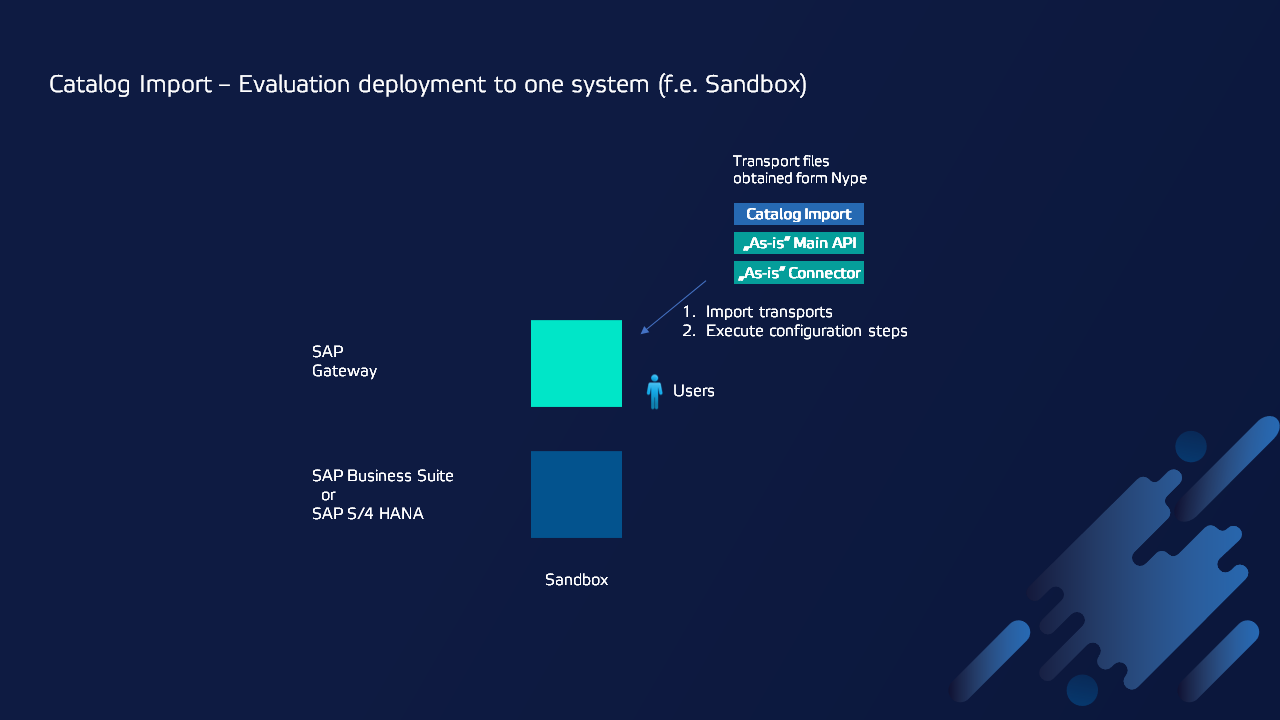
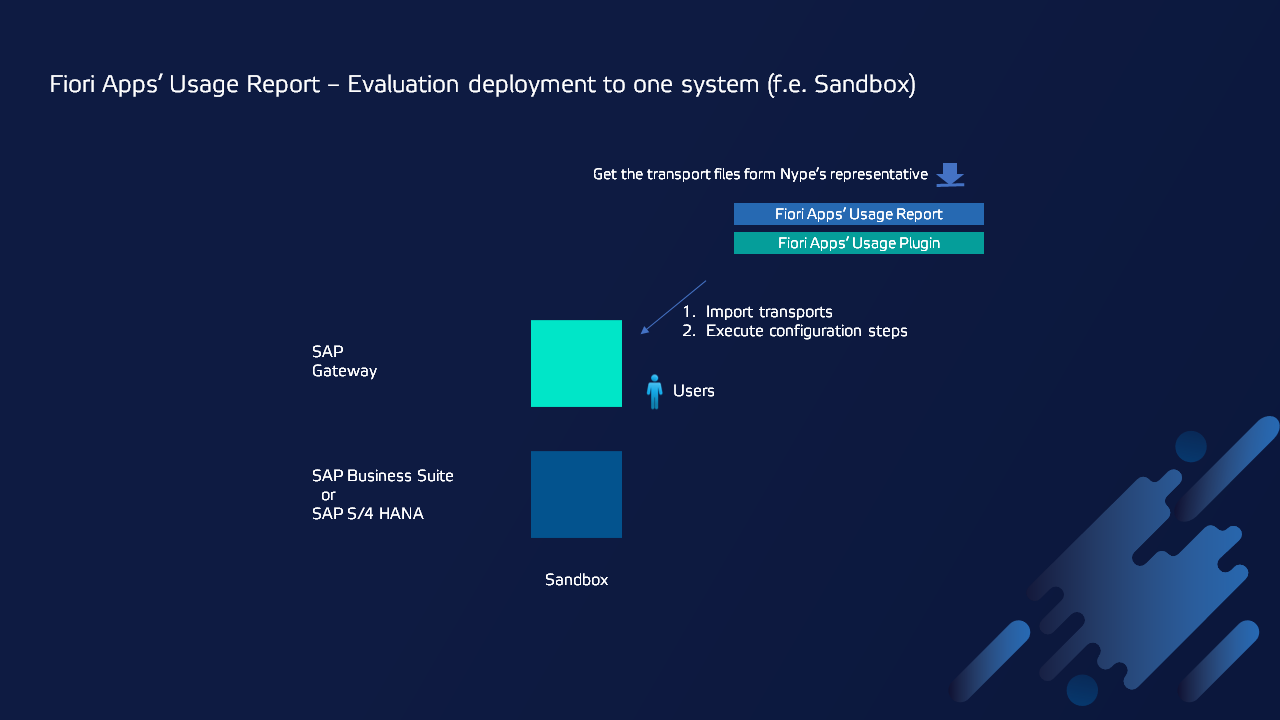
Deployed 2c93b8f with MkDocs version: 1.1.2

Changed region(s): [[0.0312, 0.0917, 0.7188, 0.1528], [0.4688, 0.2139, 0.7812, 0.3972]]

diff --git a/2020/FPS01/info/index.html b/2020/FPS01/info/index.html
@@ -974,7 +974,7 @@ documentation project:</p>
 
             <td style="vertical-align:top; border:1px solid #DCDCDC; padding: 5px"><i>str</i></td>
 
-            <td style="vertical-align:top; border:1px solid #DCDCDC; padding: 5px">'2021-02-26'</td>
+            <td style="vertical-align:top; border:1px solid #DCDCDC; padding: 5px">'2021-02-27'</td>
 
         </tr>
 

diff --git a/2020/FPS01/eval-dep/index.html b/2020/FPS01/eval-dep/index.html
@@ -245,8 +245,7 @@
 <p>The products that you need to install are:</p>
 <ol>
 <li>Fiori Apps' Usage Report</li>
-<li>"As-is" Main API</li>
-<li>"As-is" Connector</li>
+<li>Fiori Apps' Usage Plugin</li>
 </ol>
 <p><img alt="" src="../res/eval-dep.png" /></p>
                 
